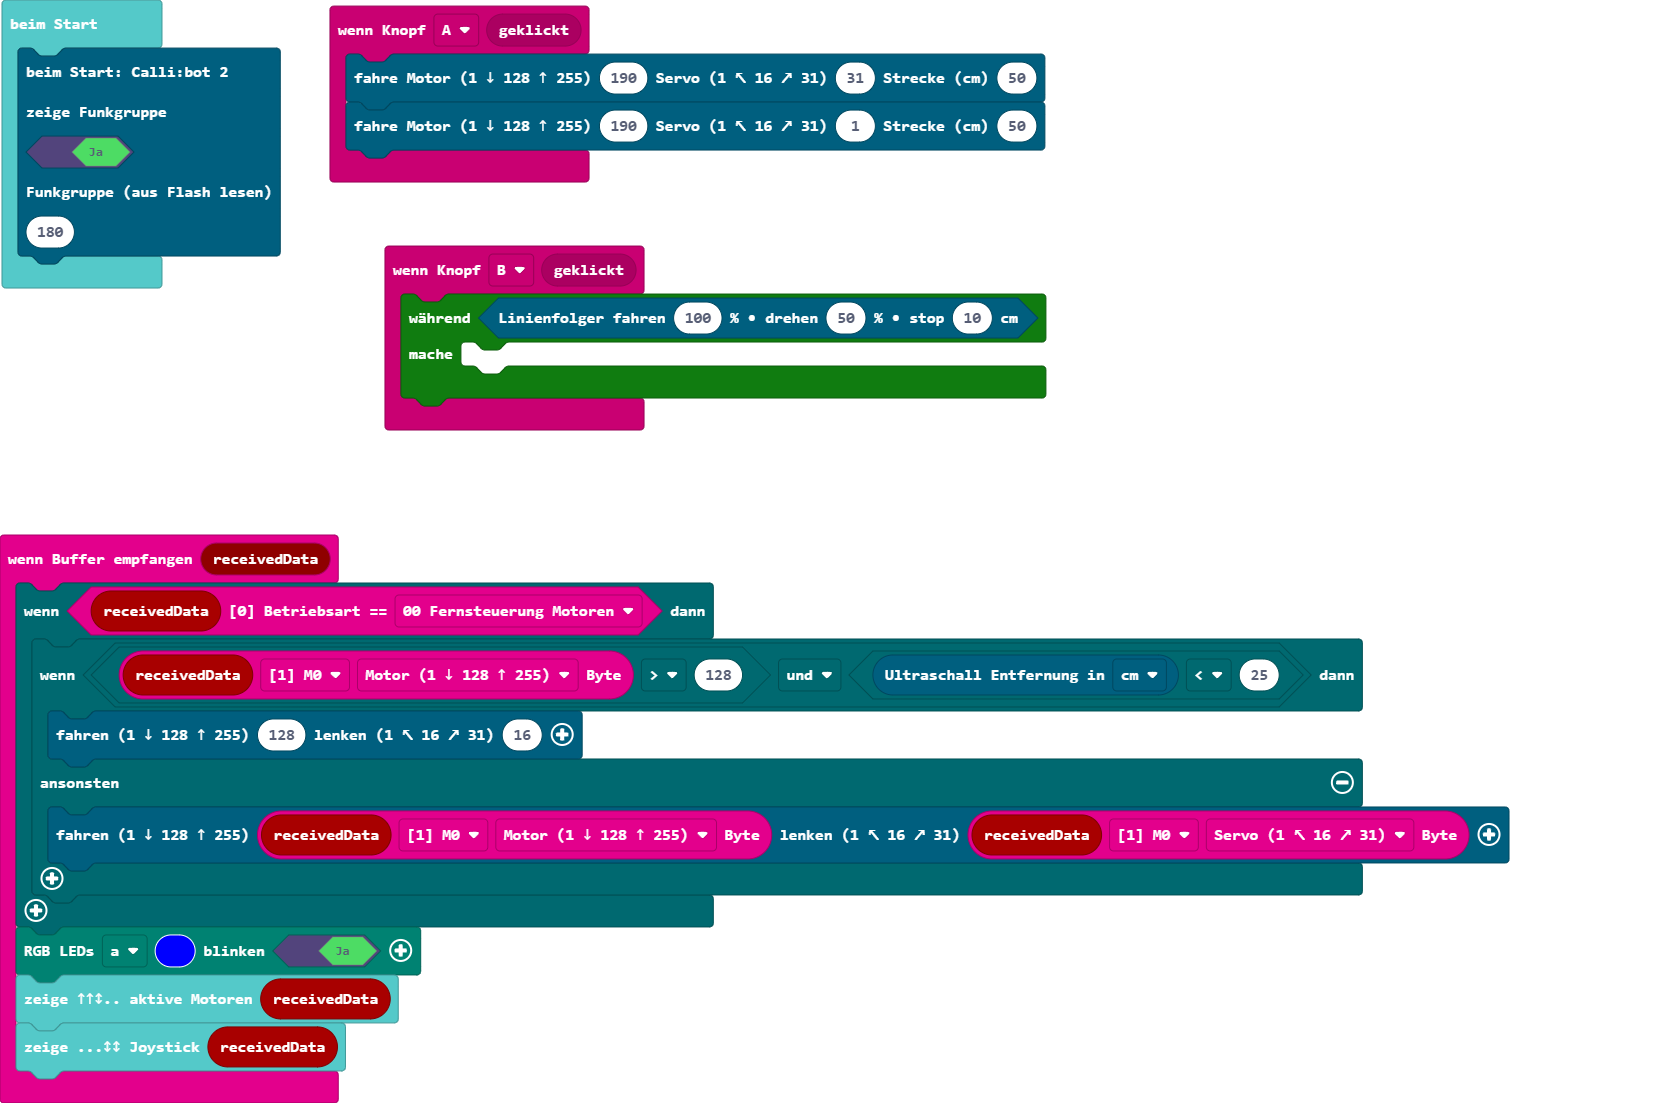
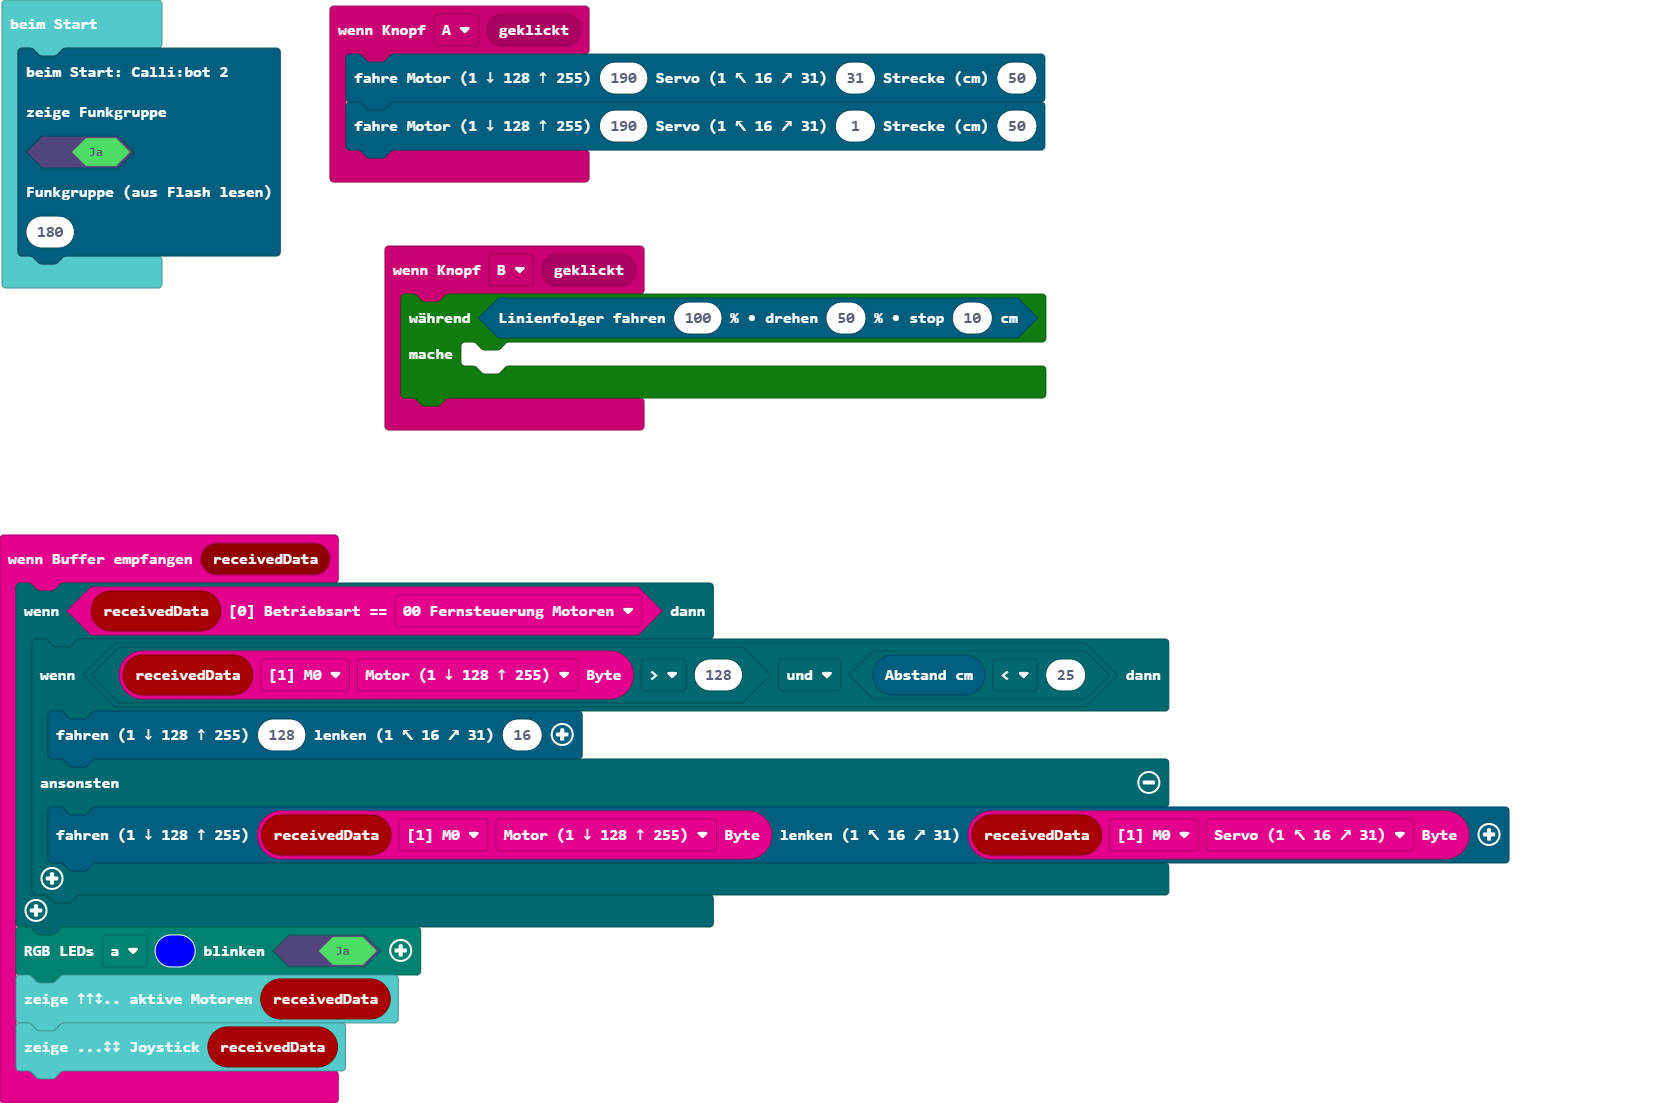
Aktualisiere pxt.json, main.blocks, main.ts

Changed region(s): [[0.5309, 0.5549, 0.8432, 0.6473], [0.6871, 0.6782, 0.8432, 0.7398], [0.6871, 0.7706, 0.8432, 0.8323]]

diff --git a/main.ts b/main.ts
@@ -9,7 +9,7 @@ input.onButtonEvent(Button.B, input.buttonEventClick(), function () {
 })
 radio.onReceivedData(function (receivedData) {
     if (radio.isBetriebsart(receivedData, radio.e0Betriebsart.p0)) {
-        if (radio.getByte(receivedData, radio.eBufferPointer.m0, radio.eBufferOffset.b0_Motor) > 128 && cb2.readUltraschallEntfernung(cb2.eDist.cm) < 25) {
+        if (radio.getByte(receivedData, radio.eBufferPointer.m0, radio.eBufferOffset.b0_Motor) > 128 && cb2.readUltraschallAbstand() < 25) {
             cb2.writeMotor128Servo16(128, 16)
         } else {
             cb2.writeMotor128Servo16(radio.getByte(receivedData, radio.eBufferPointer.m0, radio.eBufferOffset.b0_Motor), radio.getByte(receivedData, radio.eBufferPointer.m0, radio.eBufferOffset.b1_Servo))
